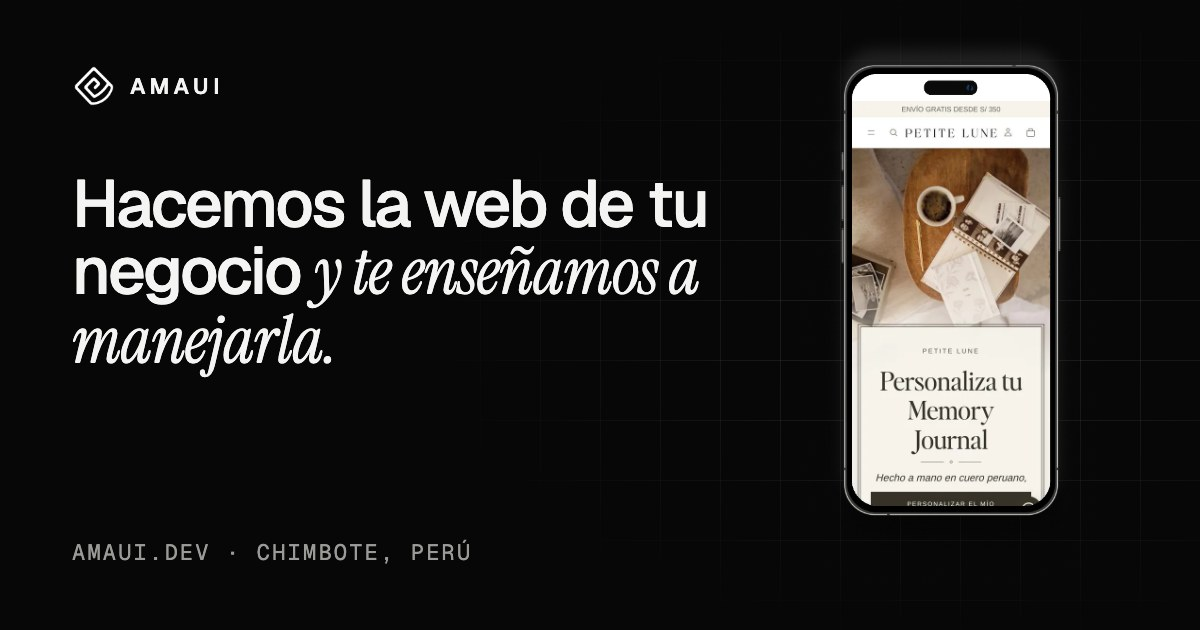
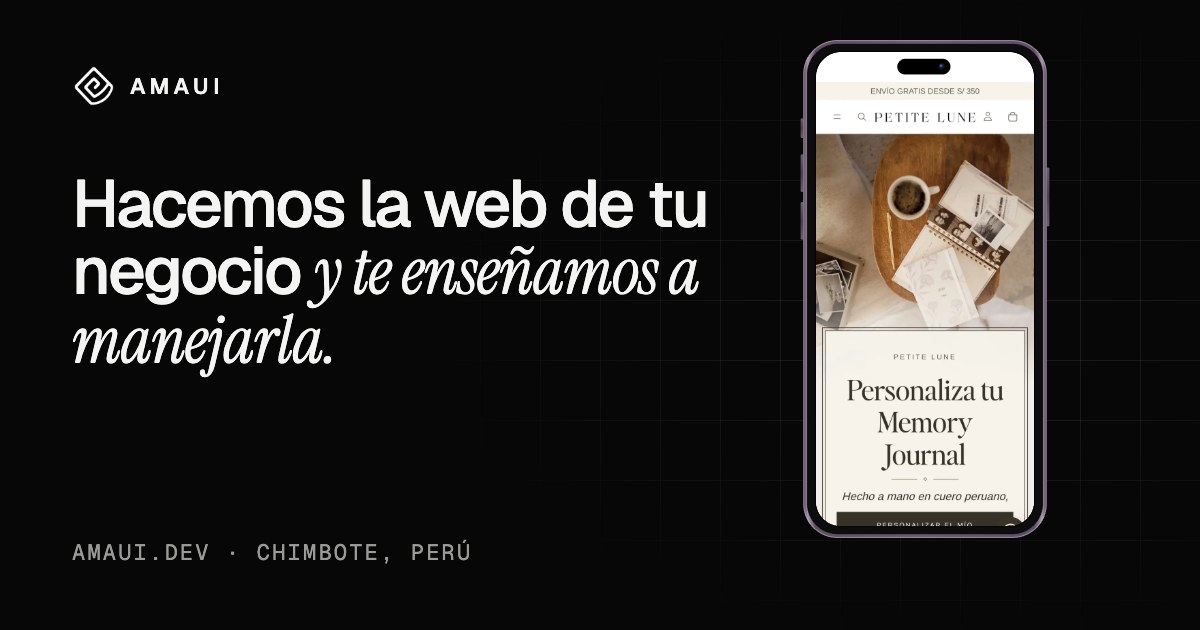
iPhone morado redibujado en SVG a partir del nuevo mockup
- Mismas proporciones que el mockup de Aldair (cuerpo 311×636, pantalla 279×606, isla 68×20, botones)
- Vector nítido a cualquier tamaño y con transparencia real; reemplaza el PNG en el inicio, la vitrina y la vista previa
- Barra de estado alineada a la isla nueva; iPhone de la vitrina más grande en móvil

Changed region(s): [[0.6475, 0.0603, 0.8942, 0.8746]]

diff --git a/index.html b/index.html
@@ -146,16 +146,16 @@
 
   /* Celular con la tienda real de Petite Lune, dentro del mockup de iPhone (512×908).
      Todas las medidas en cqw (ancho del dispositivo) para que pantalla, barra e isla escalen juntas. */
-  .device { position: relative; width: clamp(230px, min(24vw, 38svh), 310px); aspect-ratio: 512 / 908; container-type: inline-size; margin-bottom: -40px; /* el PNG incluye la sombra inferior */ }
-  .device-frame { position: absolute; inset: 0; width: 100%; height: 100%; z-index: 2; pointer-events: none; }
-  .device-screen { position: absolute; left: 18.75cqw; top: 12.5cqw; width: 62.5cqw; height: 135.9cqw; border-radius: 7.2cqw; overflow: hidden; background: #fff; z-index: 1; }
+  .device { position: relative; width: clamp(180px, min(17vw, 27svh), 232px); aspect-ratio: 319 / 636; container-type: inline-size; }
+  .device-frame { position: absolute; inset: 0; width: 100%; height: 100%; z-index: 2; pointer-events: none; filter: drop-shadow(0 0 28px rgba(255,255,255,.07)); }
+  .device-screen { position: absolute; left: 6.27cqw; top: 4.702cqw; width: 87.461cqw; height: 189.969cqw; border-radius: 10.031cqw; overflow: hidden; background: #fff; z-index: 1; }
   /* Barra de estado de iOS: hora a la izquierda de la isla, señal, wifi y batería a la derecha */
-  .device-status { position: absolute; z-index: 1; top: 0; left: 0; right: 0; height: 8.6cqw; background: #fff; display: grid; grid-template-columns: 22.85cqw 16.4cqw 1fr; align-items: center; color: #000; }
-  .device-status .time { justify-self: center; font: 600 3.3cqw/1 var(--sans); letter-spacing: -.01em; }
-  .device-status .icons { grid-column: 3; justify-self: center; display: flex; gap: 1.1cqw; align-items: center; }
-  .device-status svg { height: 2.3cqw; width: auto; fill: #000; }
+  .device-status { position: absolute; z-index: 1; top: 0; left: 0; right: 0; height: 11.912cqw; background: #fff; display: grid; grid-template-columns: 32.602cqw 21.317cqw 1fr; align-items: center; color: #000; }
+  .device-status .time { justify-self: center; font: 600 4.6cqw/1 var(--sans); letter-spacing: -.01em; }
+  .device-status .icons { grid-column: 3; justify-self: center; display: flex; gap: 1.5cqw; align-items: center; }
+  .device-status svg { height: 3.2cqw; width: auto; fill: #000; }
   /* La página empieza debajo de la barra de estado, así la isla no tapa la cabecera de la tienda */
-  .device-screen .page { position: absolute; top: 8.6cqw; left: 0; width: 100%; height: auto; will-change: transform; }
+  .device-screen .page { position: absolute; top: 11.912cqw; left: 0; width: 100%; height: auto; will-change: transform; }
   .device-screen.scrolling .page { animation: phone-scroll 72s cubic-bezier(.45, 0, .55, 1) 1.6s infinite alternate; }
   .device:hover .device-screen .page { animation-play-state: paused; }
   @keyframes phone-scroll { to { transform: translate3d(0, calc(var(--travel, 0px) * -1), 0); } }
@@ -191,9 +191,9 @@
   .dev-ipad .screen { left: 5.922cqw; top: 6.191cqw; width: 87.887cqw; height: 126.51cqw; border-radius: 2.2cqw; }
   .dev-ipad .bar { height: 3.2cqw; background: #fff; padding: 0 3.4cqw; font: 600 1.9cqw/1 var(--sans); color: #000; }
   .dev-ipad .page { top: 3.2cqw; }
-  .dev-iphone { left: 85cqw; top: 26.6cqw; width: 14cqw; aspect-ratio: 512 / 908; z-index: 3; }
-  .dev-iphone .screen { left: 18.75cqw; top: 12.5cqw; width: 62.5cqw; height: 135.9cqw; border-radius: 7.2cqw; }
-  .dev-iphone .page { top: 8.6cqw; }
+  .dev-iphone { left: 87.3cqw; top: 28.7cqw; width: 9.6cqw; aspect-ratio: 319 / 636; z-index: 3; }
+  .dev-iphone .screen { left: 6.27cqw; top: 4.702cqw; width: 87.461cqw; height: 189.969cqw; border-radius: 10.031cqw; }
+  .dev-iphone .page { top: 11.912cqw; }
   .dev svg { fill: #000; }
   .dev-ipad .bar svg { height: 1.5cqw; width: auto; }
   .showcase.playing .screen .page { animation: phone-scroll var(--dur, 60s) cubic-bezier(.45, 0, .55, 1) var(--delay, 0s) infinite alternate; }
@@ -204,7 +204,7 @@
     .showcase { aspect-ratio: 100 / 124; }
     .dev-mac { top: 0; width: 100cqw; }
     .dev-ipad { left: 6cqw; top: 64cqw; width: 42cqw; }
-    .dev-iphone { left: 58cqw; top: 77cqw; width: 30cqw; }
+    .dev-iphone { left: 62cqw; top: 74.4cqw; width: 24cqw; }
   }
 
   /* Botón flotante de WhatsApp: aparece al dejar atrás el inicio */
@@ -425,7 +425,7 @@
             </div>
             <img class="page" id="phone-page" src="assets/img/pl-mob_home_long.webp" width="640" height="10338" alt="">
           </div>
-          <img class="device-frame" src="assets/img/iphone-frame.webp" width="512" height="908" alt="">
+          <img class="device-frame" src="assets/img/iphone-frame.svg" width="319" height="636" alt="">
         </div>
       </div>
       <a href="#trabajo" class="proof-link intro" style="--d:1100ms"><span><b>petitelune.pe</b> · tienda hecha por AMAUI</span> <span class="arrow">↓</span></a>
@@ -492,7 +492,7 @@
           </div>
           <img class="page" src="assets/img/pl-phone_producto.webp" width="640" height="5251" alt="" loading="lazy" style="--dur:56s;--delay:1.6s">
         </div>
-        <img class="frame" src="assets/img/iphone-frame.webp" width="512" height="908" alt="" loading="lazy">
+        <img class="frame" src="assets/img/iphone-frame.svg" width="319" height="636" alt="" loading="lazy">
       </div>
     </div>
 
